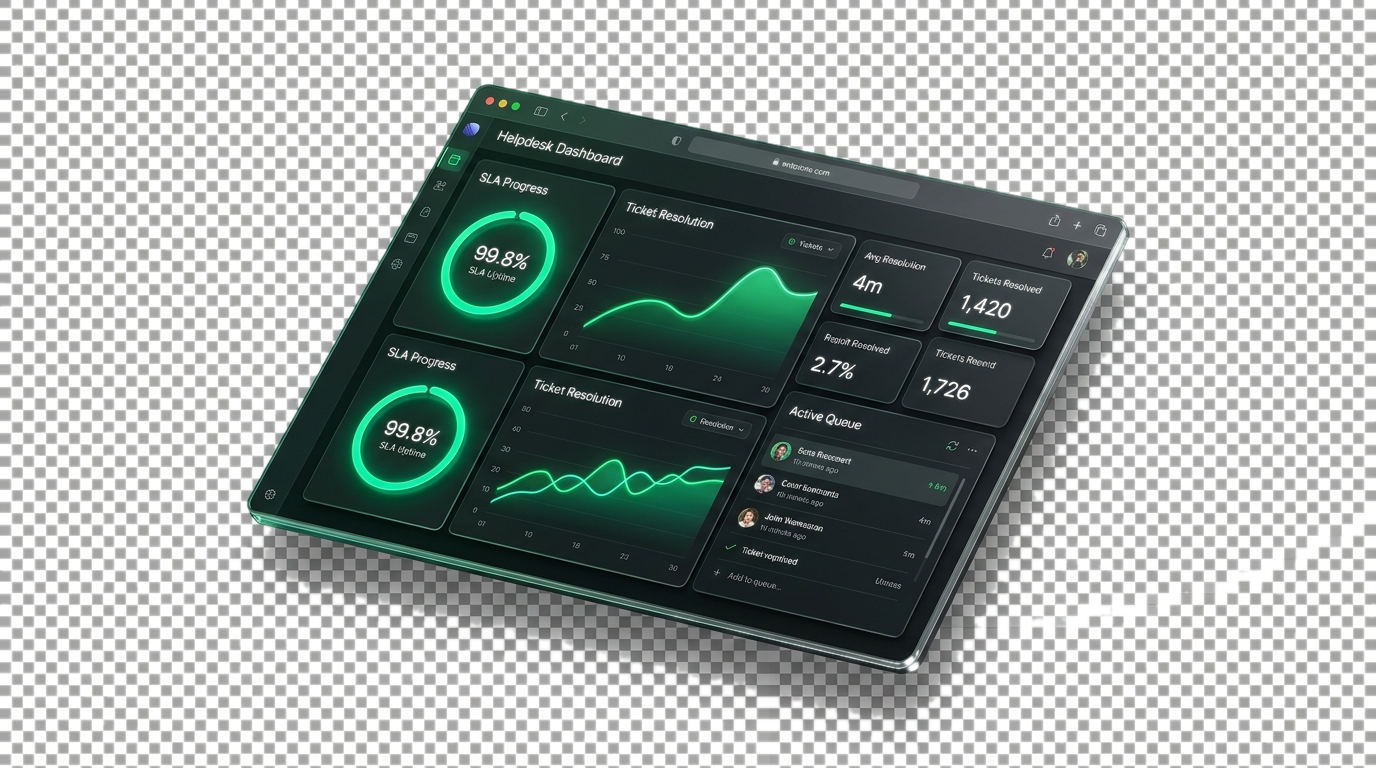
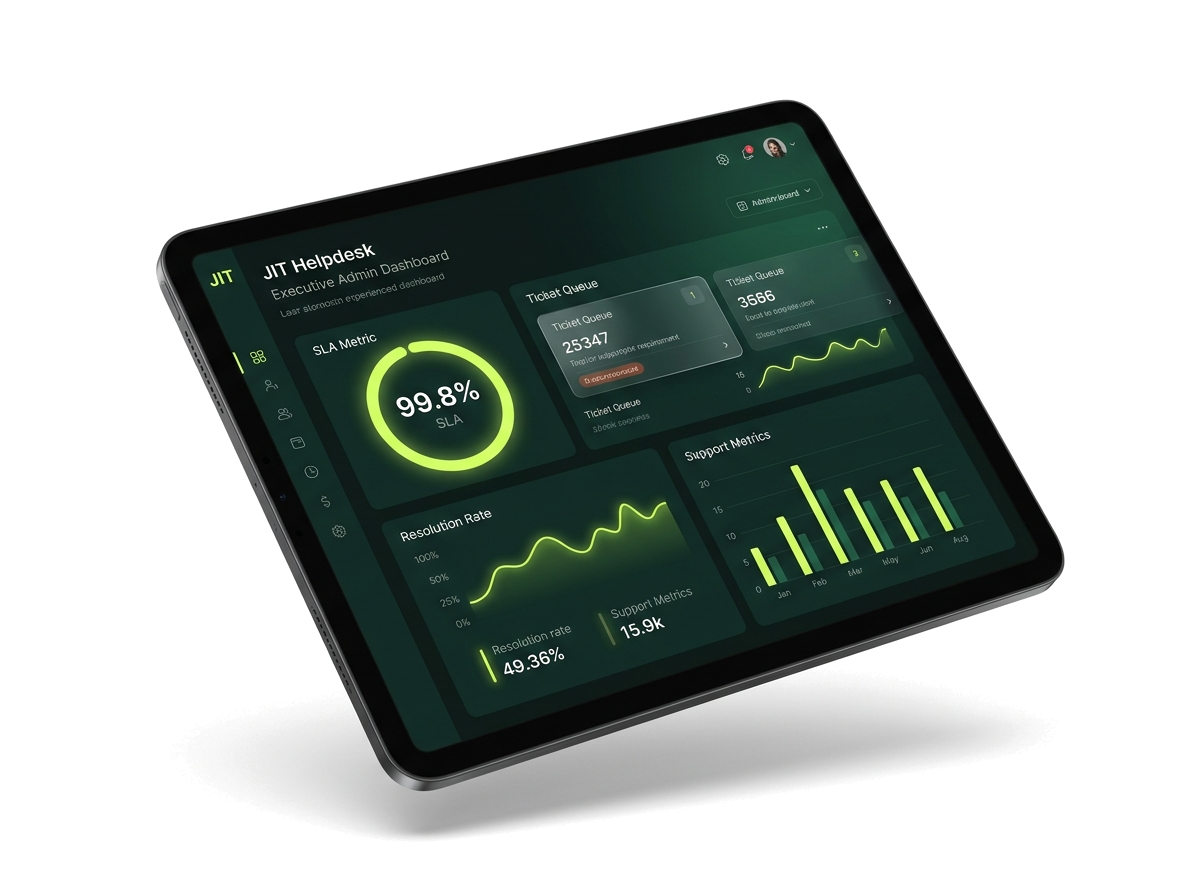
feat: replace rough cuts with studio-grade 3D renders matching hero section quality on transparent background

diff --git a/src/components/sections/SolutionSection.tsx b/src/components/sections/SolutionSection.tsx
@@ -13,8 +13,10 @@ import {
   ShieldCheck,
   Lock,
   Sparkles,
+  TrendingUp,
   CreditCard,
-  Ticket
+  Bell,
+  Coins
 } from 'lucide-react';
 
 interface SolutionSectionProps {
@@ -47,10 +49,10 @@ export const SolutionSection: React.FC<SolutionSectionProps> = ({ onOpenBooking 
           </p>
         </div>
 
-        {/* 5 Pillar Grid with Rich Transparent 3D Visuals & Graphic-Designer Level Polish */}
+        {/* 5 Pillar Grid with High-Fidelity 3D Renders (Identical to Hero Section Visuals) */}
         <div className="grid grid-cols-1 md:grid-cols-2 lg:grid-cols-3 gap-6 sm:gap-8">
           
-          {/* Pillar 1: Loyalty & Referral Engine (Moved to #1 for Ad alignment) */}
+          {/* Pillar 1: Loyalty Rewards & Referral Engine */}
           <div className="group bg-[#f6f6ef] rounded-3xl p-6 sm:p-8 border border-[#dce3d4] hover:border-[#274c3b] hover:bg-white hover:shadow-[0_20px_40px_-15px_rgba(24,44,38,0.15)] hover:-translate-y-2 transition-all duration-300 flex flex-col justify-between">
             <div>
               <div className="flex items-center justify-between mb-4">
@@ -62,29 +64,30 @@ export const SolutionSection: React.FC<SolutionSectionProps> = ({ onOpenBooking 
                 </span>
               </div>
               
-              <h3 className="text-lg font-extrabold text-[#182c26] mb-2 tracking-tight group-hover:text-[#274c3b] transition-colors">
+              <h3 className="text-lg font-extrabold text-[#182c26] mb-2 tracking-tight group-hover:text-[#274c3b] transition-colors font-display">
                 1. Loyalty Rewards &amp; Referral Engine
               </h3>
               
-              <p className="text-xs sm:text-sm text-[#61705f] leading-relaxed mb-3">
+              <p className="text-xs sm:text-sm text-[#61705f] leading-relaxed mb-4">
                 Your clients collect points at Starbucks. Now they can collect them with you. Every paid invoice awards service credits, and automated referral links turn happy clients into repeat accounts.
               </p>
 
-              {/* 3D Transparent Loyalty Coins Showcase */}
-              <div className="relative w-full h-32 my-3 rounded-2xl bg-gradient-to-b from-white to-[#edf3e3] border border-[#dce3d4] flex items-center justify-center overflow-hidden p-2">
+              {/* 3D Transparent Loyalty Coins Graphic (Same High-End Studio Render as Hero) */}
+              <div className="relative w-full h-44 my-3 rounded-2xl bg-gradient-to-b from-[#ffffff] to-[#f1f4eb] border border-[#dce3d4] flex items-center justify-center overflow-hidden p-2 group-hover:border-[#274c3b] transition-all">
                 <Image
                   src="/brand/3d_loyalty_coins_transparent.png"
-                  alt="3D Loyalty Rewards Coins"
-                  width={160}
-                  height={110}
-                  className="object-contain drop-shadow-md group-hover:scale-105 transition-transform duration-300"
+                  alt="3D Gold and Emerald Loyalty Coins"
+                  width={340}
+                  height={220}
+                  unoptimized
+                  className="w-auto h-full max-h-[155px] object-contain drop-shadow-[0_12px_24px_rgba(24,44,38,0.22)] group-hover:scale-105 transition-transform duration-300"
                 />
               </div>
 
               {/* Wallet Summary */}
-              <div className="p-2.5 rounded-xl bg-white border border-[#dce3d4] text-[11px] font-bold text-[#182c26] flex items-center justify-between">
+              <div className="p-2.5 rounded-xl bg-white border border-[#dce3d4] text-[11px] font-bold text-[#182c26] flex items-center justify-between shadow-2xs">
                 <span>Client Credits Wallet</span>
-                <span className="text-[#274c3b] font-black">$200.00 Balance</span>
+                <span className="text-[#274c3b] font-black">$200.00 Balance (450 Pts)</span>
               </div>
             </div>
 
@@ -106,27 +109,28 @@ export const SolutionSection: React.FC<SolutionSectionProps> = ({ onOpenBooking 
                 </span>
               </div>
               
-              <h3 className="text-lg font-extrabold text-[#182c26] mb-2 tracking-tight group-hover:text-[#274c3b] transition-colors">
+              <h3 className="text-lg font-extrabold text-[#182c26] mb-2 tracking-tight group-hover:text-[#274c3b] transition-colors font-display">
                 2. Your Branded Customer Mobile App
               </h3>
               
-              <p className="text-xs sm:text-sm text-[#61705f] leading-relaxed mb-3">
+              <p className="text-xs sm:text-sm text-[#61705f] leading-relaxed mb-4">
                 Show up on your clients&apos; lock screens just like DoorDash and Amazon. Give them 1-tap support tickets, instant push notifications, and fast quote approvals right on iOS and Android.
               </p>
 
-              {/* 3D Transparent Notification Pill Showcase */}
-              <div className="relative w-full h-32 my-3 rounded-2xl bg-gradient-to-b from-white to-[#edf3e3] border border-[#dce3d4] flex items-center justify-center overflow-hidden p-2">
+              {/* 3D Transparent Mobile Device with Lock-Screen Notification */}
+              <div className="relative w-full h-44 my-3 rounded-2xl bg-gradient-to-b from-[#ffffff] to-[#f1f4eb] border border-[#dce3d4] flex items-center justify-center overflow-hidden p-2 group-hover:border-[#274c3b] transition-all">
                 <Image
                   src="/brand/3d_notification_pill_transparent.png"
-                  alt="3D Lock Screen Notification Alert"
-                  width={200}
-                  height={90}
-                  className="object-contain drop-shadow-md group-hover:scale-105 transition-transform duration-300"
+                  alt="3D Smartphone with JIT Helpdesk Lock Screen Alert"
+                  width={340}
+                  height={220}
+                  unoptimized
+                  className="w-auto h-full max-h-[155px] object-contain drop-shadow-[0_12px_24px_rgba(24,44,38,0.22)] group-hover:scale-105 transition-transform duration-300"
                 />
               </div>
 
               {/* Mobile Spec */}
-              <div className="p-2.5 rounded-xl bg-white border border-[#dce3d4] text-[11px] font-bold text-[#182c26] flex items-center justify-between">
+              <div className="p-2.5 rounded-xl bg-white border border-[#dce3d4] text-[11px] font-bold text-[#182c26] flex items-center justify-between shadow-2xs">
                 <span>iOS &amp; Android Apps</span>
                 <span className="text-[#274c3b] font-black">Your Name &amp; Logo</span>
               </div>
@@ -150,28 +154,43 @@ export const SolutionSection: React.FC<SolutionSectionProps> = ({ onOpenBooking 
                 </span>
               </div>
               
-              <h3 className="text-lg font-extrabold text-[#182c26] mb-2 tracking-tight group-hover:text-[#274c3b] transition-colors">
+              <h3 className="text-lg font-extrabold text-[#182c26] mb-2 tracking-tight group-hover:text-[#274c3b] transition-colors font-display">
                 3. Your Branded Customer Web Portal
               </h3>
               
-              <p className="text-xs sm:text-sm text-[#61705f] leading-relaxed mb-3">
+              <p className="text-xs sm:text-sm text-[#61705f] leading-relaxed mb-4">
                 Let clients access their tickets, hardware inventory, pending approvals, invoices, and service credits directly from any desktop browser under your own domain name.
               </p>
 
-              {/* Visual Custom Domain Snippet */}
-              <div className="w-full h-32 my-3 rounded-2xl bg-gradient-to-b from-white to-[#edf3e3] border border-[#dce3d4] flex flex-col justify-center p-4 space-y-2">
-                <div className="flex items-center gap-2 px-3 py-2 rounded-xl bg-white border border-[#dce3d4] text-xs font-mono text-[#182c26] shadow-2xs">
-                  <Lock className="w-3.5 h-3.5 text-emerald-600" />
-                  <span className="truncate">support.youritbusiness.com</span>
+              {/* Graphic-Designer Grade Web Portal Browser Widget */}
+              <div className="relative w-full h-44 my-3 p-4 rounded-2xl bg-gradient-to-b from-white to-[#f1f4eb] border border-[#dce3d4] flex flex-col justify-center shadow-md group-hover:border-[#274c3b] transition-all">
+                {/* Browser Top Bar with 3 Dots */}
+                <div className="flex items-center justify-between pb-2 mb-3 border-b border-slate-200">
+                  <div className="flex items-center gap-1.5">
+                    <span className="w-2.5 h-2.5 rounded-full bg-rose-400 inline-block" />
+                    <span className="w-2.5 h-2.5 rounded-full bg-amber-400 inline-block" />
+                    <span className="w-2.5 h-2.5 rounded-full bg-emerald-400 inline-block" />
+                  </div>
+                  <div className="flex items-center gap-1.5 px-3 py-1 rounded-md bg-white border border-slate-200 text-[10px] font-mono text-[#182c26] shadow-2xs">
+                    <Lock className="w-2.5 h-2.5 text-emerald-600" />
+                    <span className="truncate max-w-[150px]">support.youritbusiness.com</span>
+                  </div>
+                  <span className="text-[9px] font-extrabold text-emerald-700 bg-emerald-50 px-2 py-0.5 rounded">
+                    SSL Active
+                  </span>
                 </div>
-                <div className="flex items-center justify-between text-[11px] font-bold text-[#61705f] px-1">
-                  <span>Hardware Inventory:</span>
-                  <span className="text-[#274c3b] font-black">42 Devices Protected</span>
+
+                {/* Portal Content Row */}
+                <div className="bg-white p-3 rounded-xl border border-slate-200 flex items-center justify-between text-[11px] shadow-2xs">
+                  <div>
+                    <div className="font-extrabold text-[#182c26]">42 Endpoints Protected</div>
+                    <div className="text-[9px] text-[#61705f]">Hardware &amp; License Tracking</div>
+                  </div>
+                  <span className="w-2 h-2 rounded-full bg-emerald-500 animate-pulse" />
                 </div>
               </div>
 
-              {/* Portal Feature */}
-              <div className="p-2.5 rounded-xl bg-white border border-[#dce3d4] text-[11px] font-bold text-[#182c26] flex items-center justify-between">
+              <div className="p-2.5 rounded-xl bg-white border border-[#dce3d4] text-[11px] font-bold text-[#182c26] flex items-center justify-between shadow-2xs">
                 <span>Self-Service Portal</span>
                 <span className="text-[#274c3b] font-black">Zero Phone Tag</span>
               </div>
@@ -195,29 +214,29 @@ export const SolutionSection: React.FC<SolutionSectionProps> = ({ onOpenBooking 
                 </span>
               </div>
               
-              <h3 className="text-lg font-extrabold text-[#182c26] mb-2 tracking-tight group-hover:text-[#274c3b] transition-colors">
+              <h3 className="text-lg font-extrabold text-[#182c26] mb-2 tracking-tight group-hover:text-[#274c3b] transition-colors font-display">
                 4. Your Owner Admin Dashboard
               </h3>
               
-              <p className="text-xs sm:text-sm text-[#61705f] leading-relaxed mb-3">
+              <p className="text-xs sm:text-sm text-[#61705f] leading-relaxed mb-4">
                 Keep real-time command over customer requests, technician assignment, pricing, delivery timelines, and business health from one intuitive executive console.
               </p>
 
-              {/* 3D Transparent Dashboard Showcase */}
-              <div className="relative w-full h-32 my-3 rounded-2xl bg-gradient-to-b from-white to-[#edf3e3] border border-[#dce3d4] flex items-center justify-center overflow-hidden p-2">
+              {/* 3D Transparent Tablet Displaying Executive Admin Dashboard */}
+              <div className="relative w-full h-44 my-3 rounded-2xl bg-gradient-to-b from-[#ffffff] to-[#f1f4eb] border border-[#dce3d4] flex items-center justify-center overflow-hidden p-2 group-hover:border-[#274c3b] transition-all">
                 <Image
                   src="/brand/3d_dashboard_preview_transparent.png"
-                  alt="3D Owner Admin Console"
-                  width={180}
-                  height={110}
-                  className="object-contain drop-shadow-md group-hover:scale-105 transition-transform duration-300"
+                  alt="3D Tablet showing JIT Helpdesk Admin Dashboard"
+                  width={340}
+                  height={220}
+                  unoptimized
+                  className="w-auto h-full max-h-[155px] object-contain drop-shadow-[0_12px_24px_rgba(24,44,38,0.22)] group-hover:scale-105 transition-transform duration-300"
                 />
               </div>
 
-              {/* Admin Spec */}
-              <div className="p-2.5 rounded-xl bg-white border border-[#dce3d4] text-[11px] font-bold text-[#182c26] flex items-center justify-between">
+              <div className="p-2.5 rounded-xl bg-white border border-[#dce3d4] text-[11px] font-bold text-[#182c26] flex items-center justify-between shadow-2xs">
                 <span>Real-Time SLA Tracking</span>
-                <span className="text-[#274c3b] font-black">Live Visibility</span>
+                <span className="text-[#274c3b] font-black">99.8% Uptime SLA</span>
               </div>
             </div>
 
@@ -239,36 +258,35 @@ export const SolutionSection: React.FC<SolutionSectionProps> = ({ onOpenBooking 
                 </span>
               </div>
               
-              <h3 className="text-lg font-extrabold text-[#182c26] mb-2 tracking-tight group-hover:text-[#274c3b] transition-colors">
+              <h3 className="text-lg font-extrabold text-[#182c26] mb-2 tracking-tight group-hover:text-[#274c3b] transition-colors font-display">
                 5. Unlimited Support Agents
               </h3>
               
-              <p className="text-xs sm:text-sm text-[#61705f] leading-relaxed mb-3">
+              <p className="text-xs sm:text-sm text-[#61705f] leading-relaxed mb-4">
                 Give your entire support team access without software bills that inflate for every technician or dispatcher you hire. Scale without penalty.
               </p>
 
-              {/* Team Avatars Visual Box */}
-              <div className="w-full h-32 my-3 rounded-2xl bg-gradient-to-b from-white to-[#edf3e3] border border-[#dce3d4] flex flex-col justify-center items-center p-3 space-y-2">
-                <div className="flex items-center -space-x-2">
+              {/* Graphic-Designer Grade Unlimited Team Avatars Widget */}
+              <div className="relative w-full h-44 my-3 p-4 rounded-2xl bg-gradient-to-b from-white to-[#f1f4eb] border border-[#dce3d4] shadow-md group-hover:border-[#274c3b] transition-all flex flex-col items-center justify-center space-y-3">
+                <div className="flex items-center -space-x-3">
                   {['MS', 'JD', 'AM', 'ST', 'RW'].map((initial, i) => (
                     <div
                       key={i}
-                      className="w-8 h-8 rounded-full bg-[#182c26] text-[#d2f56d] text-[10px] font-black flex items-center justify-center border-2 border-white shadow-2xs"
+                      className="w-10 h-10 rounded-full bg-[#182c26] text-[#d2f56d] text-xs font-black flex items-center justify-center border-2 border-white shadow-md transform hover:-translate-y-1 transition-transform"
                     >
                       {initial}
                     </div>
                   ))}
-                  <div className="w-8 h-8 rounded-full bg-[#274c3b] text-white text-[9px] font-bold flex items-center justify-center border-2 border-white shadow-2xs">
+                  <div className="w-10 h-10 rounded-full bg-[#274c3b] text-white text-[10px] font-bold flex items-center justify-center border-2 border-white shadow-md">
                     +All
                   </div>
                 </div>
-                <span className="text-[11px] font-black text-[#274c3b] bg-white px-3 py-1 rounded-full border border-[#dce3d4] shadow-2xs">
+                <span className="text-xs font-black text-[#274c3b] bg-white px-4 py-1.5 rounded-full border border-[#dce3d4] shadow-xs">
                   Zero Per-Tech Upcharges
                 </span>
               </div>
 
-              {/* Seat Metric */}
-              <div className="p-2.5 rounded-xl bg-white border border-[#dce3d4] text-[11px] font-bold text-[#182c26] flex items-center justify-between">
+              <div className="p-2.5 rounded-xl bg-white border border-[#dce3d4] text-[11px] font-bold text-[#182c26] flex items-center justify-between shadow-2xs">
                 <span>Technician Accounts</span>
                 <span className="text-[#274c3b] font-black">Unlimited Included</span>
               </div>
